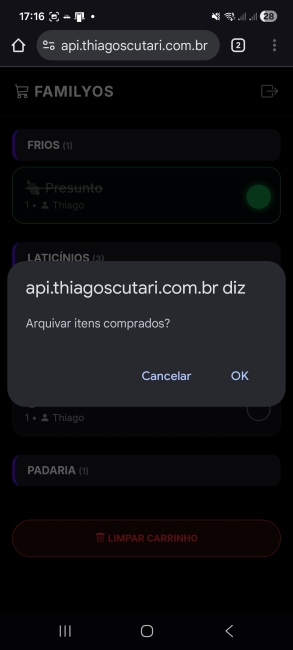
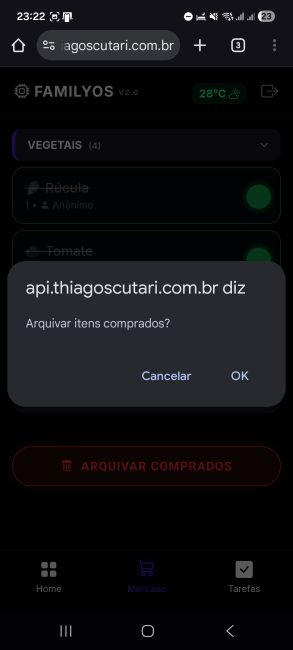
Atualização de README e imagens

diff --git a/README.md b/README.md
@@ -1,139 +1,165 @@
-# 🛒 FamilyOS: ToDo Market & List
+### 📄 Atualização do `README.md`
+
+**Onde rodar:** Na raiz do projeto no seu VS Code. Substitua o conteúdo atual por este.
+
+````markdown
+# 🏡 FamilyOS v2.0: The Home Operating System
 ### Software House Autônoma de Gestão Doméstica
 
-O **FamilyOS** é um sistema híbrido de gestão doméstica inteligente, focado em eliminar a **fricção cognitiva e operacional** na organização familiar. O foco atual é o Módulo de Compras, que utiliza Inteligência Artificial para transformar áudios no Telegram em uma **Lista de Compras Web Interativa**.
+O **FamilyOS** é um ecossistema de gestão doméstica "Zero UI". Ele elimina a fricção cognitiva de aplicativos tradicionais, permitindo que a família gerencie **Compras** e **Tarefas** usando apenas linguagem natural (áudio ou texto) no Telegram, enquanto uma Inteligência Artificial organiza tudo em um Dashboard Web Mobile-First.
 
-> **Versão Atual:** 1.2 (Stable Persistence)
-> **Stack:** Python Flask, Docker, SQLite (WAL), Google Gemini Pro.
-> **Status:** ✅ Produção
+> **Status:** ✅ Produção (Estável)
+> **Versão:** 2.1 (Multi-Module)
+> **Stack:** Python Flask, Docker, PostgreSQL, n8n, Google Gemini Pro.
 
 ---
 
-## 💡 Showcase: O Fluxo de Uso
+## 🧠 O Conceito "Zero UI"
 
-### 1. Entrada de Dados "Zero UI" (Telegram)
-A interface de entrada é o Telegram. O sistema aceita áudios com linguagem natural ("preciso de 3 ovos e uma caixa de leite") ou texto direto. O bot confirma o recebimento e avisa se o item foi adicionado ou se já existia na lista.
+O sistema entende a intenção do usuário sem botões ou menus complexos.
+
+### 1. Entrada de Dados (Telegram)
+Você fala como se estivesse pedindo um favor a um assistente real.
+* *"Comprar leite e pão"* -> Vai para o **Mercado**.
+* *"Thiago precisa lavar o carro urgente"* -> Vai para **Tarefas** (Atribuído a Thiago, Alta Prioridade).
+* *"Temos que ir ao cinema"* -> Vai para **Tarefas** (Atribuído ao Casal, Média Prioridade).
 
 ![Interação Telegram](images/telegram.jpg)
 
-### 2. O Cérebro (Orquestração n8n)
-O **n8n** atua como o sistema nervoso, recebendo o webhook do Telegram, processando o áudio via Whisper e enviando para a API Python estruturar os dados com a IA do Google.
+### 2. O Cérebro (Roteamento n8n + IA)
+O **n8n** atua como o córtex frontal. Ele recebe o áudio, transcreve (Whisper) e usa um **Classificador de Intenção** (LLM) para decidir se aquilo é uma compra ou uma tarefa, encaminhando para a rota correta da API.
 
 ![Fluxo n8n](images/n8n.png)
 
-### 3. Segurança (Acesso Familiar)
-O sistema conta com uma camada de autenticação via Cookies de Sessão para garantir que apenas a família tenha acesso à gestão.
+---
 
-![Tela de Login](images/login.jpg)
+## 📱 Módulos do Sistema
 
-### 4. A Lista Inteligente (Web App Mobile-First)
-Uma interface limpa com design **Cyberpunk Dark Neon**. O sistema agrupa automaticamente os itens por categorias (Padaria, Laticínios, Higiene) para otimizar o trajeto dentro do supermercado.
+O Frontend foi desenhado com o tema **Cyberpunk Dark Neon**, focado em uso noturno e alto contraste.
 
-![Interface Principal](images/item_list.jpg)
+### 🛒 Módulo 1: Mercado (Shopping List)
+Otimizado para o momento da compra. Os itens são categorizados automaticamente pela IA (Padaria, Açougue, Higiene) para facilitar o trajeto no supermercado.
+
+![Lista de Mercado](images/item_list.jpg)
+
+### ✅ Módulo 2: Gestão de Tarefas (Task Board) [NOVO]
+Um quadro de gestão de vida. A IA define automaticamente:
+1.  **Responsável:** Thiago, Débora ou Casal (baseado no contexto da frase).
+2.  **Prioridade:** 🔴 Alta (Urgente), 🟡 Média (Importante), 🟢 Baixa (Rotina).
+
+![Lista de Tarefas](images/tasks.jpg)
 
 ---
 
-## ✨ Detalhes da Experiência (UX)
+## ✨ Experiência do Usuário (UX)
 
-O FamilyOS foi desenhado para ser usado com uma mão só enquanto se empurra um carrinho de mercado.
-
-### Feedback Visual Instantâneo
-Ao marcar um item, ele recebe um feedback visual imediato (check verde neon e vibração tátil). A sincronização com o servidor acontece em segundo plano (Optimistic UI).
+### Feedback Visual e Tátil
+Ao concluir um item, o feedback é instantâneo (Optimistic UI). O item brilha em verde neon e o celular vibra, gerando satisfação dopaminérgica.
 
 ![Checkbox Ativo](images/checkbox.jpg)
 
-### Edição Rápida (Long Press)
-Errou o nome ou a categoria? Não precisa apagar. Segure o dedo sobre o item por **800ms** para abrir o Modal de Edição. O campo de categoria possui *autocomplete* inteligente.
+### Edição Poderosa (Long Press)
+Errou algo? Segure o dedo por 800ms sobre qualquer item para abrir o Modal de Edição. O sistema possui *autocomplete* inteligente para categorias.
 
 ![Modal de Edição](images/modal_longpress.jpg)
 
-### Limpeza de Carrinho (Soft Delete)
-Ao finalizar as compras, o botão "Limpar Carrinho" arquiva os itens comprados, mantendo-os no banco de dados para histórico futuro, mas limpando a visualização principal.
+### Arquivamento (Soft Delete)
+Mantenha a lista limpa. O botão de arquivar remove os itens concluídos da visão principal, mas mantém o histórico no banco de dados.
 
 ![Arquivar Itens](images/arquivar_itens.jpg)
 
 ---
 
-## 🏗 Arquitetura Técnica
+## 🏗 Arquitetura e Workflow (DevOps)
 
-A arquitetura evoluiu para um **Microserviço Híbrido Resiliente**, hospedado em Docker. A versão 1.2 foca em persistência de dados e estabilidade de IA.
+Este projeto utiliza um ciclo de desenvolvimento profissional híbrido, garantindo estabilidade em produção e agilidade no desenvolvimento.
 
 ![Arquitetura do Sistema](images/arquitetura.png)
 
-### Componentes Chave
-
-| Componente | Função | Tecnologias Chave |
-| :--- | :--- | :--- |
-| **Interface** | Captura de áudio/texto | Telegram Bot API |
-| **Orquestrador** | Transcrição e Roteamento | n8n, OpenAI Whisper |
-| **Inteligência** | Extração e Sanitização | **Google Gemini Pro**, LangChain |
-| **Backend** | Regras de Negócio | Python Flask, Gunicorn, SQLAlchemy |
-| **Persistência** | Banco de Dados Resiliente | **SQLite (WAL Mode)** |
-| **Frontend** | Visualização | HTML5, CSS3 (Glassmorphism), JS Vanilla |
+### 🔄 Ciclo de Vida do Código
+1.  **Desenvolvimento Local (VS Code):**
+    * O código Python roda nativamente no Windows para debug rápido.
+    * O Banco de Dados (Postgres) roda isolado no Docker Desktop.
+    * O **Ngrok** expõe a API local para a internet, permitindo testar o n8n em tempo real.
+2.  **Versionamento (Git):**
+    * Commits padronizados sobem para o GitHub (`main branch`).
+3.  **Produção (VPS HostGator):**
+    * O servidor puxa a versão estável do Git.
+    * O Docker Compose orquestra a atualização dos containers sem downtime perceptível.
 
 ---
 
-## 🛠 Instalação e Deploy
-
-O projeto utiliza **Docker Compose** para orquestração.
-
-### 1. Configuração de Ambiente (.env)
-Crie um arquivo `.env` na raiz do projeto (ao lado do `docker-compose.yml`) com suas credenciais:
-
-```bash
-TZ=America/Sao_Paulo
-SECRET_KEY=sua_chave_secreta_aqui
-DATABASE_URL=sqlite:////app/data/familyos.db
-GOOGLE_API_KEY=sua_chave_do_google_aqui
-````
-
-### 2\. Subir a Aplicação
-
-```bash
-docker compose up -d --build familyos-app
-```
-
-### 3\. Resetar/Criar Usuários (Primeiro Uso)
-
-Para criar o banco de dados e os usuários padrão (`thiago` / `debora`):
-
-```bash
-docker exec familyos_app python src/reset_db.py
-```
-
------
-
 ## 📂 Estrutura de Arquivos
 
-Para garantir que o deploy funcione, mantenha esta estrutura:
+### 🏠 Ambiente Local (Desenvolvimento)
 
 ```text
-/opt/n8n-traefik/          # Raiz da VPS
-├── .env                   # Variáveis de Ambiente (Segurança)
-├── docker-compose.yml     # Orquestrador
-└── familyos/              # Projeto FamilyOS
+C:\Users\thiag\...\todo_market_list\
+├── .env                   # Segredos Locais (Ngrok URL, DB Local)
+├── .gitignore             # Arquivos ignorados pelo Git
+├── docker-compose.yml     # Sobe apenas o DB Postgres para dev
+├── requirements.txt       # Dependências Python
+├── README.md              # Este arquivo
+├── postgres_data_local/   # Persistência do Banco Local (Ignorado no Git)
+├── docs/                  # Documentação Técnica (API, Specs, Setup)
+├── images/                # Screenshots do README
+├── tests/                 # Scripts de teste e experimentos
+└── src/                   # Código Fonte da Aplicação
+    ├── app.py             # Backend Flask (Rotas /magic e /tasks)
+    ├── main.py            # Ponto de entrada auxiliar
+    ├── reset_db.py        # Script para resetar/criar tabelas
+    ├── ngrok.exe          # Executável do Túnel (Acesso Externo)
+    ├── templates/         # Frontend (Jinja2)
+    │   ├── base.html      # Layout Mestre (Nav + Header)
+    │   ├── dashboard.html # Home (Nova)
+    │   ├── shopping.html  # Módulo Mercado
+    │   ├── tasks.html     # Módulo Tarefas
+    │   ├── login.html     # Tela de Login
+    │   └── index.html     # (Legado)
+    └── static/            # CSS e Assets
+        └── css/
+            └── styles.css
+```
+
+### ☁ Ambiente de Produção (VPS)
+
+```text
+/opt/n8n-traefik/          # Raiz da Infraestrutura
+├── .env                   # Segredos de Produção
+├── docker-compose.yml     # Orquestrador Completo (App + Banco + N8N + Traefik)
+└── familyos/              # Repositório Clonado
     ├── Dockerfile         # Receita da Imagem
-    ├── data/              # Banco de Dados (Persistente)
-    └── src/               # Código Fonte
-        ├── app.py         # Backend Flask
-        ├── static/        # CSS/Imagens
-        └── templates/     # HTML (Jinja2)
+    └── src/               # Código Fonte Sincronizado
 ```
 
 -----
 
-## 🗺 Roadmap e Status
+## 🛠 Stack Tecnológica
 
-| Sprint | Foco | Status |
+| Camada | Tecnologia | Função |
 | :--- | :--- | :--- |
-| **Sprint 1-6** | MVP e Frontend Básico | ✅ Concluído |
-| **Sprint 7** | **Persistência, WAL Mode e UX Mobile** | ✅ Concluído (v1.2) |
-| **Sprint 8** | Feedback de IA no Frontend (WebSocket) | 🚧 Planejado |
-| **Sprint 9** | Múltiplas Listas (Churrasco/Farmácia) | 🔮 Futuro |
+| **Interface** | Telegram Bot API | Entrada de dados Zero UI |
+| **Orquestração** | n8n (Self-Hosted) | Lógica de Fluxo, Whisper, Roteamento |
+| **Backend** | Python Flask | API REST, Regras de Negócio |
+| **Banco de Dados** | **PostgreSQL 15** | Persistência Relacional Robusta |
+| **Inteligência** | Google Gemini 1.5 | NLP, Classificação e Extração de Entidades |
+| **Infra** | Docker & Traefik | Containerização e Proxy Reverso SSL |
+
+-----
+
+## 🗺 Roadmap
+
+| Versão | Foco | Status |
+| :--- | :--- | :--- |
+| **v1.0** | MVP Lista de Compras | ✅ Concluído |
+| **v1.2** | Persistência e UX Mobile | ✅ Concluído |
+| **v2.0** | **Módulo Tarefas & Postgres** | ✅ **Produção** |
+| **v2.1** | Dashboard & Clima | 🚧 Em Breve |
+| **v3.0** | Finanças & Orçamento | 🔮 Futuro |
 
 -----
 
 **Desenvolvido por:** Thiago Scutari.
-**Powered by:** Python, Docker & Coffee.
+*Automação Residencial levada a sério.*
 
 ```
